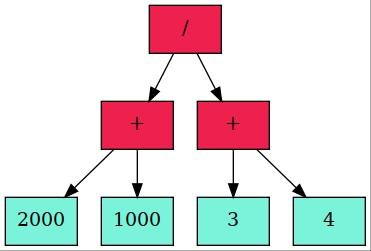
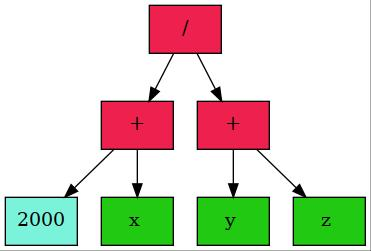
name table

Changed region(s): [[0.7709, 0.7809, 1.0, 0.9761], [0.5337, 0.7809, 0.7412, 0.9761], [0.2668, 0.7809, 0.4744, 0.9761]]

diff --git a/src/tree.cpp b/src/tree.cpp
@@ -8,6 +8,7 @@ TreeError ConstructorTree(Tree* tree)
     if (tree->root == NULL) {return ERROR_ALLOCATION;}
 
     tree->size = 1;
+    tree->num_names = 0;
 
     return NO_ERROR;
 }
@@ -19,7 +20,11 @@ Node* NewNode()//Type value_type, Operators value_Operators,  )
 
     node->left   = NULL;
     node->right  = NULL;
-    node->value  = NULL;
+
+    node->data.value     = NULL;
+    node->data.value_op  = NO_OP;
+    node->data.variable  = NULL;
+
     node->type   = NO_TYPE;
 
     return node;
@@ -35,10 +40,14 @@ TreeError PrintNode(Node* node, FILE* To, Order order_value)
     if (order_value == PRE_ORDER)
     {
         if (node->type == NUM)
-            fprintf(To, "%lg", node->value);
-        else
+            fprintf(To, "%lg", node->data.value);
+        else if (node->type == OPERATOR)
         {
-            PrintOperator((Operators) node->value, To);
+            PrintOperator(node->data.value_op, To);
+        }
+        else if (node->type == VAR)
+        {
+            printf("%s", node->data.variable);
         }
     }
 
@@ -50,10 +59,14 @@ TreeError PrintNode(Node* node, FILE* To, Order order_value)
     if (order_value == IN_ORDER)
     {
         if (node->type == NUM)
-            fprintf(To, "%lg ", node->value);
-        else
+            fprintf(To, "%lg", node->data.value);
+        else if (node->type == OPERATOR)
         {
-            PrintOperator((Operators) node->value, To);
+            PrintOperator(node->data.value_op, To);
+        }
+        else if (node->type == VAR)
+        {
+            printf("%s", node->data.variable);
         }
     }
     
@@ -64,10 +77,14 @@ TreeError PrintNode(Node* node, FILE* To, Order order_value)
     if (order_value == POST_ORDER)
     {
         if (node->type == NUM)
-            fprintf(To, "%lg ", node->value);
-        else
+            fprintf(To, "%lg", node->data.value);
+        else if (node->type == OPERATOR)
         {
-            PrintOperator((Operators) node->value, To);
+            PrintOperator(node->data.value_op, To);
+        }
+        else if (node->type == VAR)
+        {
+            printf("%s", node->data.variable);
         }
     }
 
@@ -109,12 +126,16 @@ void DeleteNode(Node* node)
     DeleteNode(node->left);
     DeleteNode(node->right);
     
+    if (node->type == VAR)
+        free(node->data.variable);
+    
     free(node);
+    
     return;
 }
 
 
-TreeError PasteObject(char* source, Node** node)
+TreeError PasteObject(Tree* tree, char* source, Node** node, Table* names)
 {
     double value = 0;
 
@@ -123,23 +144,48 @@ TreeError PasteObject(char* source, Node** node)
         if (strncmp(source, cmds[i].name, cmds[i].size_name) == 0)
         {
             (*node)->type  = OPERATOR;
-            (*node)->value = cmds[i].value_op;
+            (*node)->data.value_op = cmds[i].value_op;
         }
     }
 
     if ((*node)->type == NO_TYPE)
     {
-        sscanf(source, "%lg", &value);
-        
-        (*node)->type  = NUM; 
-        (*node)->value = value;
+        if (sscanf(source, "%lg", &value) == 1)
+        {
+            (*node)->type  = NUM;
+            (*node)->data.value = value;
+        }
+        else
+        {
+            (*node)->type = VAR;
+            bool x = false;
+
+            for (size_t i = 0; i < MAX_NUM_VARS - 1; i++)
+            {
+                if (strcmp(source, names[i].var_name) == 0)
+                {
+                    (*node)->data.variable = strdup(names[i].var_name);
+                    x = true;
+                }
+            }
+            if (x == false)
+            {
+                (*node)->data.variable = strdup(source);
+                
+                names[tree->num_names].name_size = strlen(source);
+
+                memcpy(names[tree->num_names].var_name, (*node)->data.variable, names->name_size);
+                
+                tree->num_names++;
+            }
+        }
     }
 
     return NO_ERROR;
 }
 
 
-TreeError ReadTree(Tree* tree, Node** node, char** position, Order order_value)
+TreeError ReadTree(Tree* tree, Node** node, char** position, Order order_value, Table* names)
 {
     char source[100] = {};
     SkipSpaces(position);
@@ -156,10 +202,10 @@ TreeError ReadTree(Tree* tree, Node** node, char** position, Order order_value)
         {
             SkipSpaces(position);
             ReadObject(source, position);
-            PasteObject(source, node);
+            PasteObject(tree, source, node, names);
         }
         
-        TreeError error =  ReadTree(tree, &(*node)->left, position, order_value);
+        TreeError error =  ReadTree(tree, &(*node)->left, position, order_value, names);
         if (error != NO_ERROR)
             return error;
 
@@ -167,10 +213,10 @@ TreeError ReadTree(Tree* tree, Node** node, char** position, Order order_value)
         {
             SkipSpaces(position);
             ReadObject(source, position);
-            PasteObject(source, node);
+            PasteObject(tree, source, node, names);
         }
 
-        error = ReadTree(tree, &(*node)->right, position, order_value);
+        error = ReadTree(tree, &(*node)->right, position, order_value, names);
         if (error != NO_ERROR)
             return error;
 
@@ -178,7 +224,7 @@ TreeError ReadTree(Tree* tree, Node** node, char** position, Order order_value)
         {
             SkipSpaces(position);
             ReadObject(source, position);
-            PasteObject(source, node);
+            PasteObject(tree, source, node, names);
         }
         
         SkipSpaces(position);
@@ -200,7 +246,7 @@ TreeError ReadTree(Tree* tree, Node** node, char** position, Order order_value)
 
 TreeError SkipSpaces(char** position)
 {
-    while (**position == ' ')
+    while (isspace(**position))
         (*position)++;
 
     return NO_ERROR;

diff --git a/src/tree.h b/src/tree.h
@@ -16,24 +16,33 @@
 
 const size_t MAX_SIZE_TREE = 64;
 const size_t MAX_SIZE_ARG  = 64;
-const size_t MAX_SIZE_NAME = 5;
+const size_t MAX_SIZE_NAME = 10;
 const size_t NUM_COMMANDS  = 4;
+const size_t MAX_NUM_VARS = 10;
 
 typedef char* Elem_t;
 
-struct Command
+struct Table
 {
-    char name[MAX_SIZE_NAME];
-    size_t size_name;
-    size_t  value_op;
+    char var_name[MAX_SIZE_NAME];
+    double         varible_value;
+    size_t             name_size;
 };
 
 enum Operators
 {
+    NO_OP,
     OP_ADD = 1,
     OP_SUB,
     OP_MUL,
     OP_DIV
+};
+
+struct Command
+{
+    char name[MAX_SIZE_NAME];
+    size_t   size_name;
+    Operators value_op;
 };
 
 const size_t SIZE_ADD = 3;
@@ -73,13 +82,19 @@ enum Type
     NO_TYPE,
     NUM,
     OPERATOR,
-    VAR,
-    
+    VAR
+};
+
+union tag_data
+{
+    double        value;
+    char*      variable;
+    Operators  value_op;
 };
 
 struct Node
 {
-    double  value;
+    tag_data data;
     Type     type;
     Node*    left;
     Node*   right;
@@ -89,6 +104,7 @@ struct Tree
 {
     Node* root;
     size_t size;
+    size_t num_names;
 };
 
 TreeError ConstructorTree(Tree* tree);
@@ -122,10 +138,10 @@ void PrintOperator(Operators value_Operators, FILE* TO);
 
 
 
-TreeError ReadTree(Tree* tree, Node** node, char** position, Order order_value);
+TreeError ReadTree(Tree* tree, Node** node, char** position, Order order_value, Table* names);
 
 TreeError SkipSpaces(char** position);
 TreeError ReadObject(char* source, char** position);
-TreeError PasteObject(char* source, Node** node);
+TreeError PasteObject(Tree* tree, char* source, Node** node, Table* names);
 
 #endif

diff --git a/src/graphic.cpp b/src/graphic.cpp
@@ -7,7 +7,7 @@ TreeError GraphicDump(Tree* tree)
 
     dtNodeStyle ().shape        ("box");
     dtNodeStyle ().style         ("filled");
-    //dtNodeStyle ().fontcolor      ("black");
+    dtNodeStyle ().fontcolor      ("black");
 
     GraphicDumpNode(tree->root, 1);
 
@@ -27,12 +27,12 @@ TreeError GraphicDumpNode(Node* node, size_t counter)
     if (node->type == NUM)
     {
         dtNodeStyle().fillcolor("#7BF2DA");//HEX_TIFFANY
-        sprintf(str, "%lg", node->value);
+        sprintf(str, "%lg", node->data.value);
     }
     else if (node->type == OPERATOR)
     {
         dtNodeStyle().fillcolor("#EE204D");//HEX_RED
-        switch((int) node->value)
+        switch((int) node->data.value_op)
         {
             case OP_ADD:
                 sprintf(str, " + ");
@@ -47,6 +47,11 @@ TreeError GraphicDumpNode(Node* node, size_t counter)
                 sprintf(str, " / ");
                 break;
         }
+    }
+    else if (node->type == VAR)
+    {
+        dtNodeStyle().fillcolor("#21C912");//HEX_GREEN
+        sprintf(str, "%s", node->data.variable);
     }
     
     

diff --git a/src/main.cpp b/src/main.cpp
@@ -9,14 +9,25 @@ int main()
     Text buffer = {};
     Tree tree   = {};
 
+    Table names[MAX_NUM_VARS] = {};
+
     CreateBuffer(&buffer, "file.txt");
 
     char* position = buffer.position;
 
-    ReadTree(&tree, &tree.root, &position, PRE_ORDER);
+    ReadTree(&tree, &tree.root, &position, PRE_ORDER, names);
     
     GraphicDump(&tree);
-    printf("^_^ _/%lg\n", Evaluate(tree.root));
+
+    printf("%s and %lu\n", names[0].var_name, names[0].name_size);
+    printf("%s and %lu\n", names[1].var_name, names[1].name_size);
+    printf("%s and %lu\n", names[2].var_name, names[2].name_size);
+    printf("%s and %lu\n", names[3].var_name, names[3].name_size);
+    printf("%s and %lu\n", names[4].var_name, names[4].name_size);
+    printf("%lu\n", tree.num_names);
+
+
+    //printf("^_^ _/%lg\n", Evaluate(tree.root, 2000.0));
 
     printf("\n");
     PrintNode(tree.root, stdout, IN_ORDER);

diff --git a/src/dif.cpp b/src/dif.cpp
@@ -3,24 +3,29 @@
 
 double Differentiator(Node* node)
 {
-    
+    //if (node->type == NUM) return CreateNode(NUM, 0, NULL, NULL);
+
 }
 
 
-double Evaluate(Node* node)
+double Evaluate(Node* node, double x)
 {
     if (!node) {return NAN;}
     if (node->type == NUM)
-        return node->value;
+    {
+        return node->data.value;
+    }
+    if (node->type == VAR)
+        return x;
     
     double left = 0, right = 0;
 
     if (node->left)
-        left  = Evaluate(node->left);
+        left  = Evaluate(node->left, x);
     if (node->right)
-        right = Evaluate(node->right);
+        right = Evaluate(node->right, x);
 
-    switch((int) node->value)
+    switch(node->data.value_op)
     {
         case OP_ADD: return (left + right);
 

diff --git a/src/dif.h b/src/dif.h
@@ -5,7 +5,7 @@
 
 
 
-double Evaluate(Node* node);
+double Evaluate(Node* node, double x);
 
 
 
